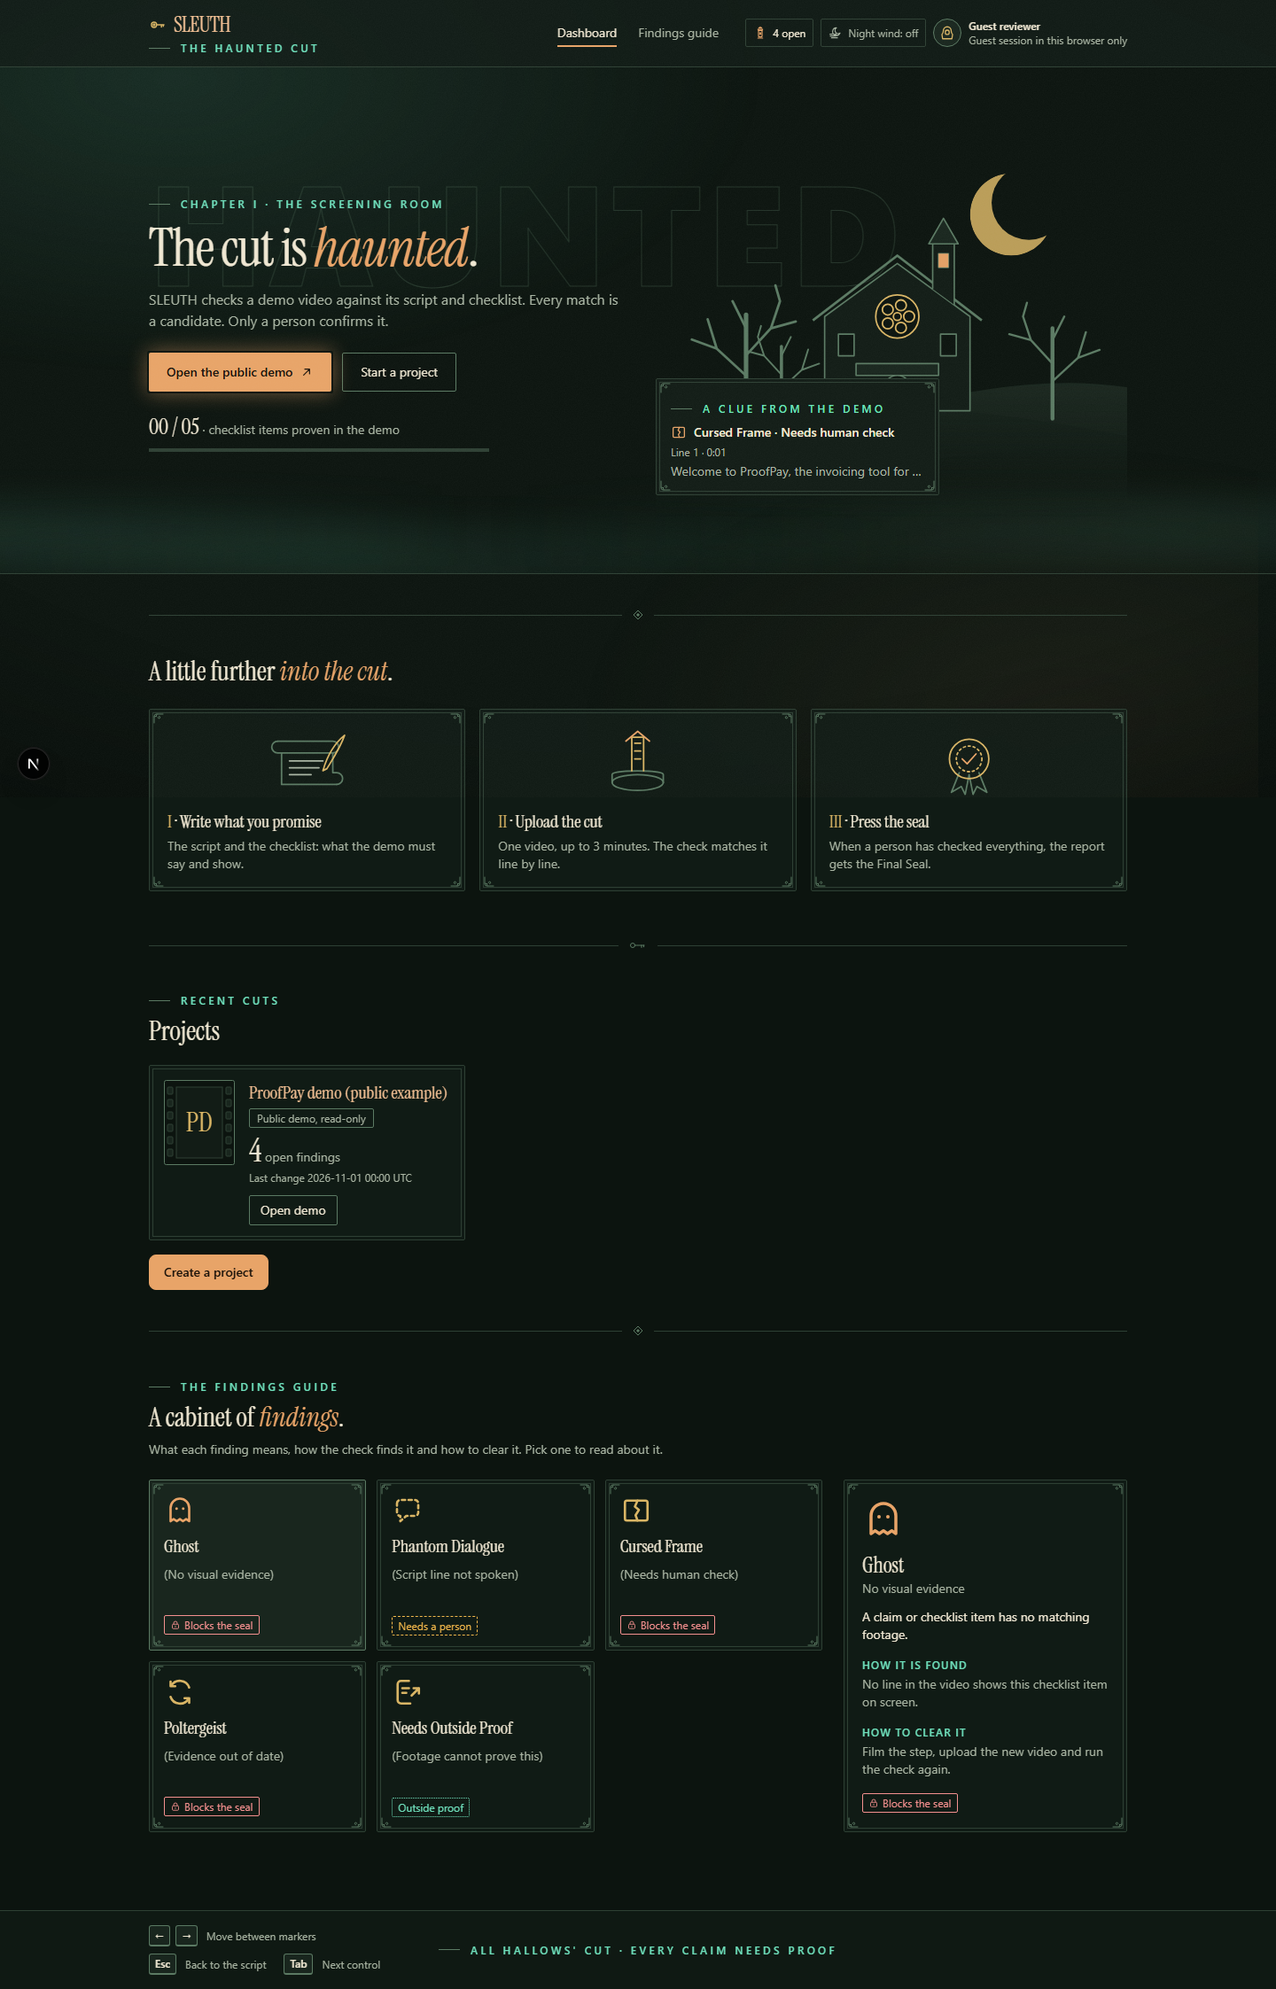
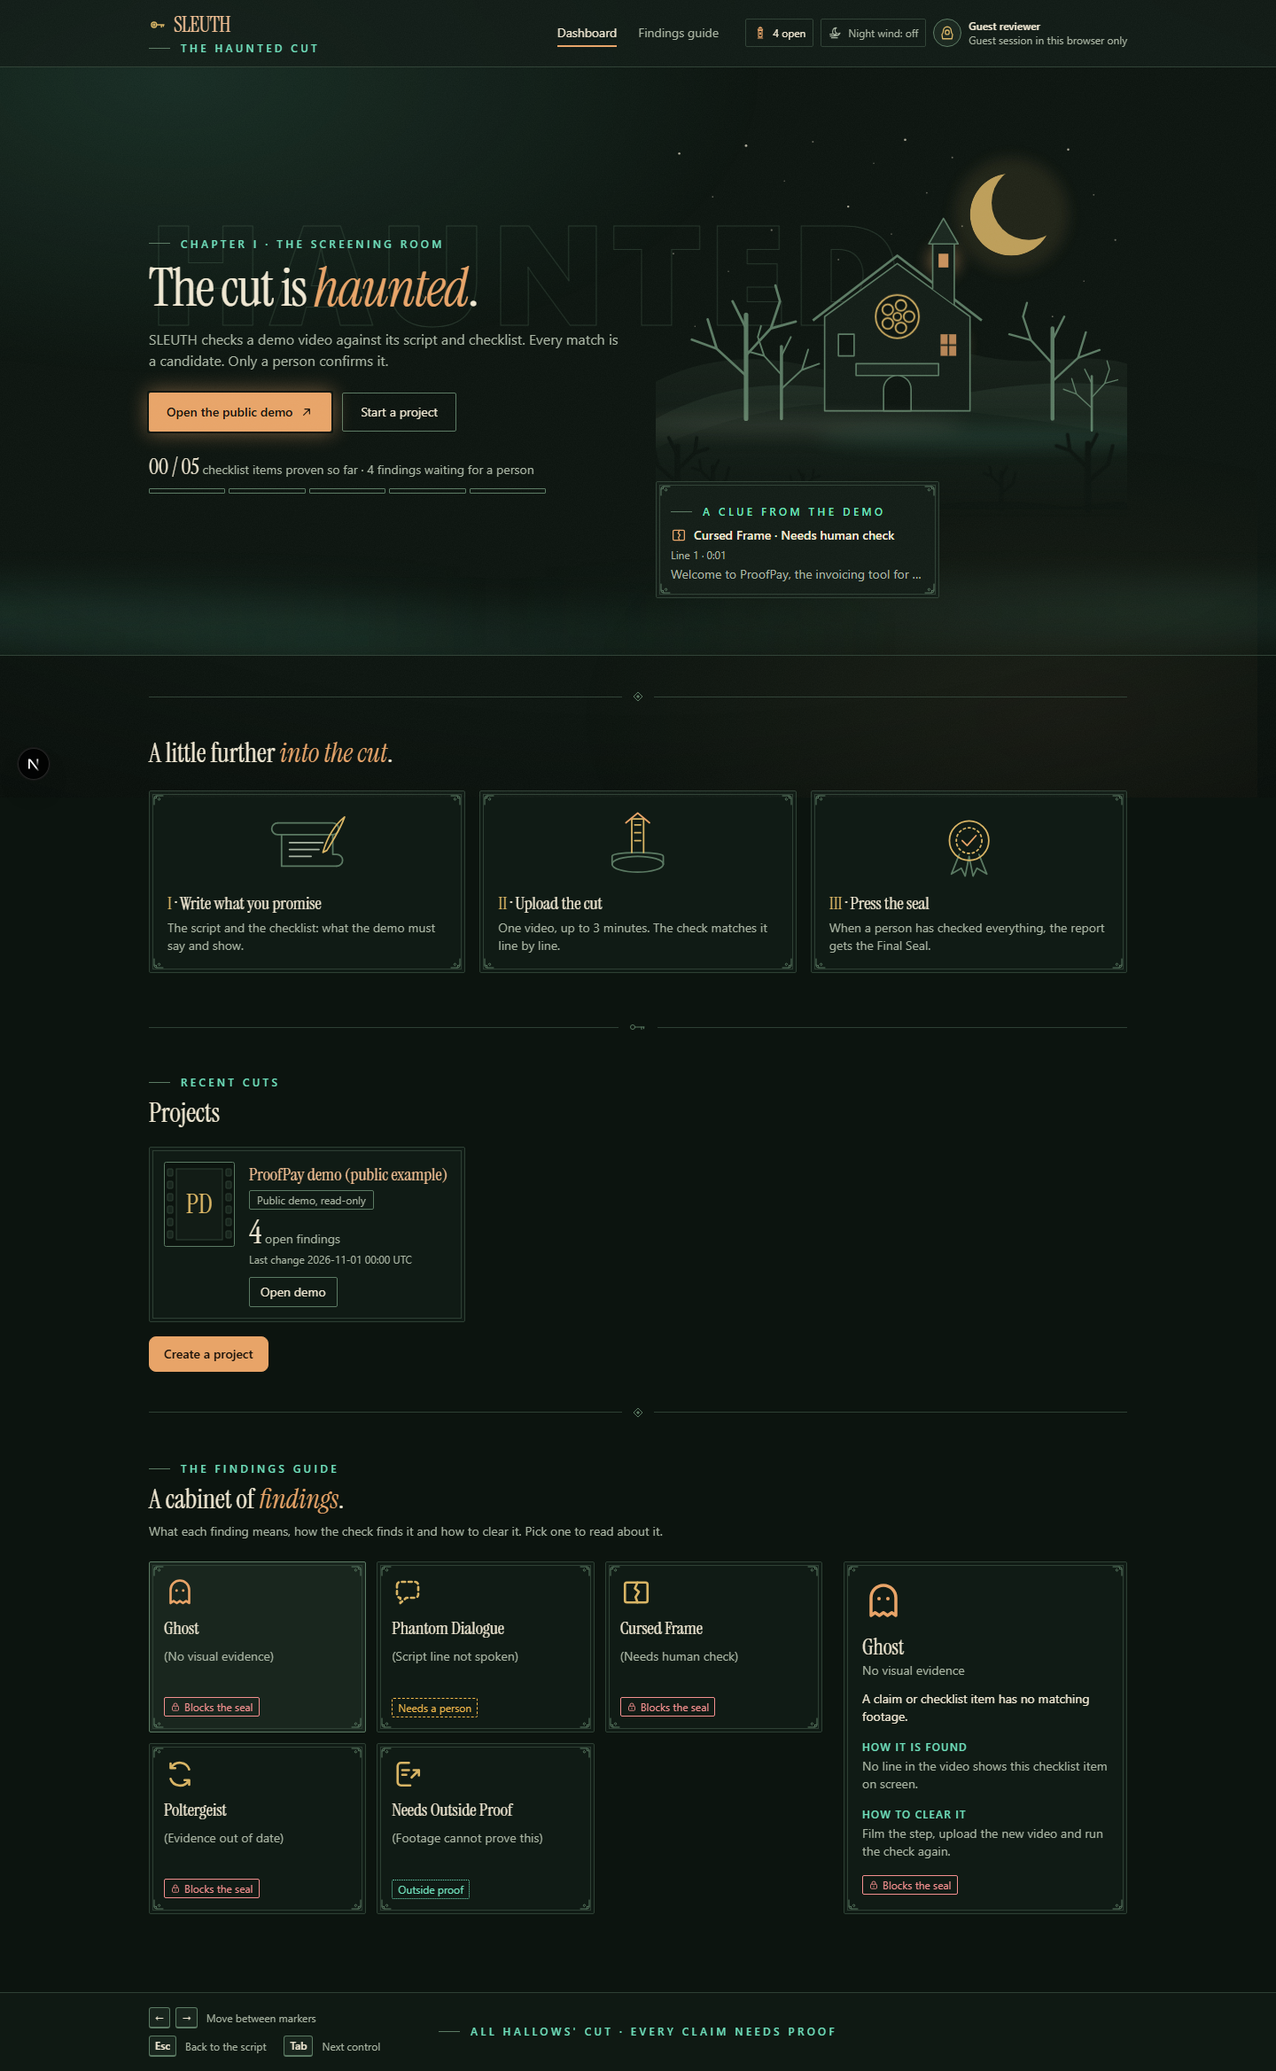
feat(web): deeper hero art, clue card clear of the door, and a coverage line with the waiting count

diff --git a/apps/web/features/dashboard/hero-art.tsx b/apps/web/features/dashboard/hero-art.tsx
@@ -8,10 +8,23 @@ export function batCycleSeconds(random: () => number = Math.random): number {
   return 20 + Math.round(random() * 20);
 }
 
-function Tree({ x, scale = 1, flip = false }: { x: number; scale?: number; flip?: boolean }) {
+/** The first crossing waits 2 to 8 s, so it never starts the moment the page opens. */
+export function batFirstDelaySeconds(random: () => number = Math.random): number {
+  return 2 + Math.round(random() * 6);
+}
+
+/** Fixed star positions [x, y, r], so the sky is the same on every render (no random markup). */
+const STARS: [number, number, number][] = [
+  [24, 30, 1.1], [58, 74, 0.8], [92, 22, 1.3], [131, 58, 0.7], [160, 18, 0.9], [196, 84, 1.1],
+  [222, 40, 0.7], [254, 16, 1.2], [276, 70, 0.8], [302, 34, 0.9], [420, 26, 1.1], [446, 72, 0.8],
+  [468, 118, 1], [436, 160, 0.7], [18, 132, 0.9], [74, 150, 0.7], [118, 108, 1], [186, 138, 0.8],
+  [240, 112, 0.7], [312, 104, 0.9], [404, 196, 0.8], [40, 206, 0.7],
+];
+
+function Tree({ x, y = 300, scale = 1, flip = false }: { x: number; y?: number; scale?: number; flip?: boolean }) {
   return (
     <g
-      transform={`translate(${x} 300) scale(${flip ? -scale : scale} ${scale})`}
+      transform={`translate(${x} ${y}) scale(${flip ? -scale : scale} ${scale})`}
       className="stroke-line-strong"
       fill="none"
       strokeWidth={2.2}
@@ -23,11 +36,28 @@ function Tree({ x, scale = 1, flip = false }: { x: number; scale?: number; flip?
   );
 }
 
+/** A small dark tree for the front row: a trunk and a few bare branches, filled like a silhouette. */
+function FrontTree({ x, scale = 1, flip = false }: { x: number; scale?: number; flip?: boolean }) {
+  return (
+    <g
+      transform={`translate(${x} 392) scale(${flip ? -scale : scale} ${scale})`}
+      className="stroke-background"
+      fill="none"
+      strokeWidth={3}
+      strokeLinecap="round"
+    >
+      <path d="M0 0V-58" strokeWidth={5} />
+      <path d="M0-24-18-40-22-56M0-36 16-52 18-66M16-52 28-56M0-50-8-66" />
+    </g>
+  );
+}
+
 /**
- * The dashboard hero picture: an old cinema house on a hill at night, a crescent moon, bare
- * trees, one lit window, and a film reel for the rose window. Original drawing, decorative
- * only. Drawn with token classes, so it follows the theme, and hidden in forced colours by
- * its parent. The bat crosses the moon once per cycle; it is gone under reduced motion.
+ * The dashboard hero picture: an old cinema house on a hill at night. From the back: stars,
+ * a crescent moon, three hill layers, bare trees, the house with two lit windows and a film
+ * reel for the rose window, a mist band at the foot of the hill, and a dark front row of trees.
+ * Original drawing, decorative only, drawn with token classes so it follows the theme.
+ * The bat crosses the moon once per cycle; it is gone under reduced motion.
  */
 export function HeroArt({ className = "" }: { className?: string }) {
   const bat = useRef<SVGGElement>(null);
@@ -35,7 +65,9 @@ export function HeroArt({ className = "" }: { className?: string }) {
   const id = `hero${useId().replace(/[^a-zA-Z0-9_-]/g, "")}`;
 
   useEffect(() => {
-    if (bat.current) bat.current.style.animationDuration = `${batCycleSeconds()}s`;
+    if (!bat.current) return;
+    bat.current.style.animationDuration = `${batCycleSeconds()}s`;
+    bat.current.style.animationDelay = `${batFirstDelaySeconds()}s`;
   }, []);
 
   return (
@@ -60,16 +92,41 @@ export function HeroArt({ className = "" }: { className?: string }) {
         <mask id={`${id}-ground`}>
           <rect width="480" height="400" fill={`url(#${id}-fade)`} />
         </mask>
+        <filter id={`${id}-soft`} x="-100%" y="-100%" width="300%" height="300%">
+          <feGaussianBlur stdDeviation="7" />
+        </filter>
+        <filter id={`${id}-mist`} x="-20%" y="-200%" width="140%" height="500%">
+          <feGaussianBlur stdDeviation="9" />
+        </filter>
       </defs>
 
-      {/* Moon: a gold crescent. */}
+      {/* Stars: still, small, faint. */}
+      <g className="fill-foreground" data-layer="stars">
+        {STARS.map(([x, y, r]) => (
+          <circle key={`${x}-${y}`} cx={x} cy={y} r={r} opacity={r > 1 ? 0.7 : 0.4} />
+        ))}
+      </g>
+
+      {/* Moon: a gold crescent with a faint halo. */}
+      <circle cx="362" cy="92" r="58" className="fill-gold/10" filter={`url(#${id}-soft)`} />
       <circle cx="362" cy="92" r="42" className="fill-gold/85" mask={`url(#${id}-moon)`} />
 
-      {/* Far hills, then the near hill, fading into the page at the bottom. */}
-      <g mask={`url(#${id}-ground)`}>
+      {/* Three hill layers, the nearest fading into the page at the bottom. */}
+      <g mask={`url(#${id}-ground)`} data-layer="hills">
+        <path d="M0 262C60 232 120 236 170 250S270 222 330 236 430 230 480 244V400H0Z" className="fill-line/25" />
         <path d="M0 300C70 262 140 258 210 276S360 250 480 268V400H0Z" className="fill-line/50" />
         <path d="M0 330C90 290 170 278 250 286S390 300 480 318V400H0Z" className="fill-raised" />
       </g>
+
+      {/* Bare trees behind and beside the house. */}
+      <Tree x={92} scale={1.15} />
+      <Tree x={128} scale={0.8} flip />
+      <Tree x={404} scale={1} flip />
+      <Tree x={444} y={312} scale={0.6} />
+
+      {/* Soft light behind the two lit windows. */}
+      <circle cx="293" cy="139" r="16" className="fill-primary/35" filter={`url(#${id}-soft)`} />
+      <circle cx="298" cy="225" r="18" className="fill-primary/30" filter={`url(#${id}-soft)`} />
 
       {/* The cinema house. */}
       <g className="stroke-line-strong" strokeWidth={1.5} strokeLinejoin="round">
@@ -82,13 +139,13 @@ export function HeroArt({ className = "" }: { className?: string }) {
         <rect x="204" y="244" width="84" height="12" className="fill-raised" />
         {/* Door. */}
         <path d="M232 292V270A14 14 0 0 1 260 270V292Z" className="fill-background" />
-        {/* Dark windows. */}
+        {/* Dark window. */}
         <rect x="186" y="214" width="16" height="22" className="fill-background" />
-        <rect x="290" y="214" width="16" height="22" className="fill-background" />
-        <rect x="288" y="132" width="10" height="14" className="fill-background" />
       </g>
-      {/* The one lit window, in the tower. */}
+      {/* The lit windows: the tower and the right ground-floor window. */}
       <rect x="288" y="132" width="10" height="14" className={`fill-primary ${styles.window}`} />
+      <rect x="290" y="214" width="16" height="22" className={`fill-primary/90 ${styles.window}`} />
+      <path d="M298 214V236M290 225H306" className="stroke-surface" strokeWidth={1.5} />
 
       {/* Rose window: a film reel, five holes round a hub. */}
       <g transform="translate(246 196)" className="stroke-gold" fill="none" strokeWidth={1.6}>
@@ -104,14 +161,25 @@ export function HeroArt({ className = "" }: { className?: string }) {
         ))}
       </g>
 
-      {/* Bare trees either side. */}
-      <Tree x={92} scale={1.15} />
-      <Tree x={128} scale={0.8} flip />
-      <Tree x={404} scale={1} flip />
+      {/* Mist at the foot of the hill. */}
+      <g className={styles.groundMist} filter={`url(#${id}-mist)`} data-layer="mist">
+        <ellipse cx="150" cy="306" rx="170" ry="10" className="fill-foreground/10" />
+        <ellipse cx="350" cy="318" rx="180" ry="12" className="fill-spectral/10" />
+      </g>
 
-      {/* The bat, crossing near the moon. */}
-      <g ref={bat} className={`fill-background ${styles.bat}`}>
-        <path d="M0 0C4-6 9-7 12-3 13-6 15-6 16-3 19-7 24-6 28 0 23-2 20 0 18 3 16 1 12 1 10 3 8 0 5-2 0 0Z" />
+      {/* Front row of dark trees, kept clear of the door. */}
+      <g data-layer="front-trees">
+        <FrontTree x={22} scale={1.1} />
+        <FrontTree x={58} scale={0.75} flip />
+        <FrontTree x={150} scale={0.6} />
+        <FrontTree x={352} scale={0.65} flip />
+        <FrontTree x={440} scale={1.15} flip />
+        <path d="M0 392C40 380 80 384 120 390S200 386 230 392H0ZM262 392C300 384 360 382 400 388S460 382 480 386V392Z" className="fill-background" />
+      </g>
+
+      {/* The bat, crossing the moon. */}
+      <g ref={bat} className={`fill-background ${styles.bat}`} data-layer="bat">
+        <path d="M0 0C5-8 11-9 15-4 16-8 19-8 20-4 24-9 30-8 35 0 29-3 25 0 22 4 20 1 15 1 12 4 10 0 6-3 0 0Z" />
       </g>
     </svg>
   );

diff --git a/apps/web/features/dashboard/dashboard-hero.tsx b/apps/web/features/dashboard/dashboard-hero.tsx
@@ -11,6 +11,12 @@ import { formatClock, useDemoSnapshot, type DemoClue } from "./use-demo-snapshot
 
 const pad2 = (n: number) => String(n).padStart(2, "0");
 
+/** "4 findings waiting for a person", from the real open count. */
+export function waitingText(count: number): string {
+  if (count === 0) return "no findings waiting for a person";
+  return `${count} ${count === 1 ? "finding" : "findings"} waiting for a person`;
+}
+
 /** `/projects/{id}`, with `?line=` so the workspace opens on that line. */
 export function clueHref(demoId: string, clue: DemoClue): string {
   const base = `/projects/${encodeURIComponent(demoId)}`;
@@ -27,7 +33,7 @@ function ClueCard({ demoId, clue }: { demoId: string; clue: DemoClue }) {
     <Link
       href={clueHref(demoId, clue)}
       data-testid="clue-card"
-      className="panel panel-lift relative block max-w-xs bg-surface p-4 sm:absolute sm:bottom-6 sm:left-0"
+      className="panel panel-lift relative z-10 -mt-4 block max-w-xs bg-surface p-4 sm:-mt-10"
     >
       <PanelCorners />
       <span className="eyebrow">A clue from the demo</span>
@@ -94,15 +100,22 @@ export function DashboardHero({ client }: { client?: ApiClient }) {
               </Link>
             </div>
             {proven ? (
-              <div className="relative mt-6 max-w-sm" data-testid="hero-coverage">
+              <div className="relative mt-6 max-w-md" data-testid="hero-coverage">
                 <p className="text-sm text-muted">
                   <span className="font-display text-2xl text-foreground tabular-nums">
                     {pad2(proven.done)} / {pad2(proven.total)}
                   </span>{" "}
-                  · checklist items proven in the demo
+                  checklist items proven so far
+                  {snapshot.waiting !== null ? <> · {waitingText(snapshot.waiting)}</> : null}
                 </p>
-                <div className="mt-2 h-1 w-full bg-line" aria-hidden="true">
-                  <div className="h-1 bg-gold" style={{ width: `${Math.round((proven.done / proven.total) * 100)}%` }} />
+                {/* One notch per checklist item: gold when a person proved it. */}
+                <div className="mt-2 flex gap-1" aria-hidden="true" data-testid="hero-notches">
+                  {Array.from({ length: proven.total }, (_, i) => (
+                    <span
+                      key={i}
+                      className={`h-1.5 flex-1 rounded-[1px] ${i < proven.done ? "bg-gold" : "border border-line-strong"}`}
+                    />
+                  ))}
                 </div>
               </div>
             ) : null}
@@ -110,6 +123,7 @@ export function DashboardHero({ client }: { client?: ApiClient }) {
 
           <div className="relative">
             <HeroArt className="h-auto w-full max-w-xl justify-self-center" />
+            {/* Below the house, overlapping only the foot of the hill, so the door stays clear. */}
             {snapshot.clue && snapshot.demoId ? <ClueCard demoId={snapshot.demoId} clue={snapshot.clue} /> : null}
           </div>
         </div>

diff --git a/apps/web/features/dashboard/dashboard-hero.test.tsx b/apps/web/features/dashboard/dashboard-hero.test.tsx
@@ -3,10 +3,10 @@ import userEvent from "@testing-library/user-event";
 import { describe, expect, it, vi } from "vitest";
 import { FINDING_LABELS, type EvidenceCandidate, type Finding, type ScriptSegment } from "@sleuth/contracts";
 import type { ApiClient } from "@/lib/api-client";
-import { clueHref, DashboardHero } from "./dashboard-hero";
+import { clueHref, DashboardHero, waitingText } from "./dashboard-hero";
 import { FINDING_GUIDE, FINDING_ORDER, TAG_TEXT } from "./finding-guide";
 import { FindingsCabinet } from "./findings-cabinet";
-import { batCycleSeconds } from "./hero-art";
+import { batCycleSeconds, batFirstDelaySeconds } from "./hero-art";
 import { formatClock, pickClue } from "./use-demo-snapshot";
 
 const seg = (id: string, index: number, text: string) => ({ id, index, text }) as ScriptSegment;
@@ -91,7 +91,13 @@ describe("DashboardHero", () => {
   it("shows the heading, the real demo coverage and a clue that opens its line", async () => {
     render(<DashboardHero client={client()} />);
     expect(screen.getByRole("heading", { level: 1, name: /^The cut is haunted/ })).toBeInTheDocument();
-    expect(await screen.findByTestId("hero-coverage")).toHaveTextContent("01 / 05 · checklist items proven in the demo");
+    expect(await screen.findByTestId("hero-coverage")).toHaveTextContent(
+      "01 / 05 checklist items proven so far · 1 finding waiting for a person",
+    );
+    // One notch per checklist item, one of them proven.
+    const notches = screen.getByTestId("hero-notches").children;
+    expect(notches).toHaveLength(5);
+    expect(Array.from(notches).filter((n) => n.className.includes("bg-gold"))).toHaveLength(1);
     const clue = await screen.findByTestId("clue-card");
     expect(clue).toHaveAttribute("href", "/projects/proofpay-demo?line=seg-3");
     expect(clue).toHaveTextContent("Cursed Frame · Needs human check");
@@ -127,6 +133,24 @@ describe("DashboardHero", () => {
   it("lets the bat cross every 20 to 40 seconds", () => {
     expect(batCycleSeconds(() => 0)).toBe(20);
     expect(batCycleSeconds(() => 0.999)).toBe(40);
+    expect(batFirstDelaySeconds(() => 0)).toBe(2);
+    expect(batFirstDelaySeconds(() => 0.999)).toBe(8);
+  });
+
+  it("words the waiting count from the real number", () => {
+    expect(waitingText(4)).toBe("4 findings waiting for a person");
+    expect(waitingText(1)).toBe("1 finding waiting for a person");
+    expect(waitingText(0)).toBe("no findings waiting for a person");
+  });
+
+  it("draws stars, three hill layers, mist, a front tree row and the bat", () => {
+    render(<DashboardHero client={client()} />);
+    const art = screen.getByTestId("hero-art");
+    for (const layer of ["stars", "hills", "mist", "front-trees", "bat"]) {
+      expect(art.querySelector(`[data-layer="${layer}"]`), layer).not.toBeNull();
+    }
+    expect(art.querySelectorAll("[data-layer=hills] path")).toHaveLength(3);
+    expect(art.innerHTML).not.toMatch(/#[0-9a-fA-F]{3,6}\b/);
   });
 });
 

diff --git a/apps/web/features/dashboard/use-demo-snapshot.ts b/apps/web/features/dashboard/use-demo-snapshot.ts
@@ -23,10 +23,12 @@ export interface DemoSnapshot {
   demoId: string | null;
   /** Checklist items a person proved, out of all checklist items. Null when unknown. */
   proven: { done: number; total: number } | null;
+  /** Open findings in the demo, each waiting for a person. Null when unknown. */
+  waiting: number | null;
   clue: DemoClue | null;
 }
 
-const NONE: DemoSnapshot = { state: "none", demoId: null, proven: null, clue: null };
+const NONE: DemoSnapshot = { state: "none", demoId: null, proven: null, waiting: null, clue: null };
 
 /**
  * The clue card shows one open finding. The API gives findings no time stamp, so "newest" is
@@ -82,6 +84,7 @@ export function useDemoSnapshot(client?: ApiClient): DemoSnapshot {
         state: "ready",
         demoId: demo.id,
         proven: coverage && total > 0 ? { done: coverage.coverage.totals.proven, total } : null,
+        waiting: findings.findings.filter((f) => f.status === "open").length,
         clue: pickClue(findings.findings, evidence.evidence, detail.scriptVersion?.segments ?? []),
       } satisfies DemoSnapshot;
     })()

diff --git a/apps/web/features/dashboard/dashboard.module.css b/apps/web/features/dashboard/dashboard.module.css
@@ -42,6 +42,20 @@
   }
 }
 
+/* Mist at the foot of the hill drifts 14px and back over 40 s. */
+.groundMist {
+  animation: ground-mist 40s ease-in-out infinite alternate;
+}
+
+@keyframes ground-mist {
+  from {
+    transform: translateX(-7px);
+  }
+  to {
+    transform: translateX(7px);
+  }
+}
+
 /* Cursed Frame card: a still 2px red and teal split of the name on hover or focus. */
 .cursed:hover .cursedName,
 .cursed:focus-visible .cursedName {
@@ -55,7 +69,8 @@
     display: none;
     animation: none;
   }
-  .window {
+  .window,
+  .groundMist {
     animation: none;
   }
   .cursed:hover .cursedName,

diff --git a/docs/kiro-engineering-journal.md b/docs/kiro-engineering-journal.md
@@ -1523,4 +1523,5 @@ Not shown: that `analysis.spec.ts` can never flake again. It passed 5 of 5 under
 - Three steps row, film-frame project cards (initials poster, big numeral, every test id kept), and the findings cabinet: a radio group with arrow keys, Home and End, and a sticky detail panel. Tags follow the real seal rules: Ghost, Cursed Frame and Poltergeist block the seal; Phantom Dialogue needs a person; Needs Outside Proof is outside proof. "How it is found" and "How to clear it" come from `analyse.ts` and `seal.ts`, since `ghost-hunt.md` has no such text.
 - Dashboard motion lives in `features/dashboard/dashboard.module.css`, so step 1's `globals.css` is unchanged. No new token.
 - Specs changed on purpose: the H1 is now the hero heading (smoke, analysis), and the spooky-label check is scoped to the cabinet. New e2e: the clue card opens its line.
-- Checks: lint 0 problems, typecheck clean, unit tests 1144 passed and 70 skipped, build ok, Playwright chromium 74 passed, ghost-scan clean.
+- Review round: the hero art gained a still star field, a third (distant) hill layer, a front row of dark trees, a soft glow behind two lit windows and a mist band at the foot of the hill. The bat's first crossing now waits 2 to 8 s. The clue card sits under the house, clear of the door. The coverage line reads `00 / 05 checklist items proven so far · 4 findings waiting for a person`; both numbers come from the API, with one notch per checklist item.
+- Checks: lint 0 problems, typecheck clean, unit tests 1146 passed and 70 skipped, build ok, Playwright chromium 74 passed, ghost-scan clean.
